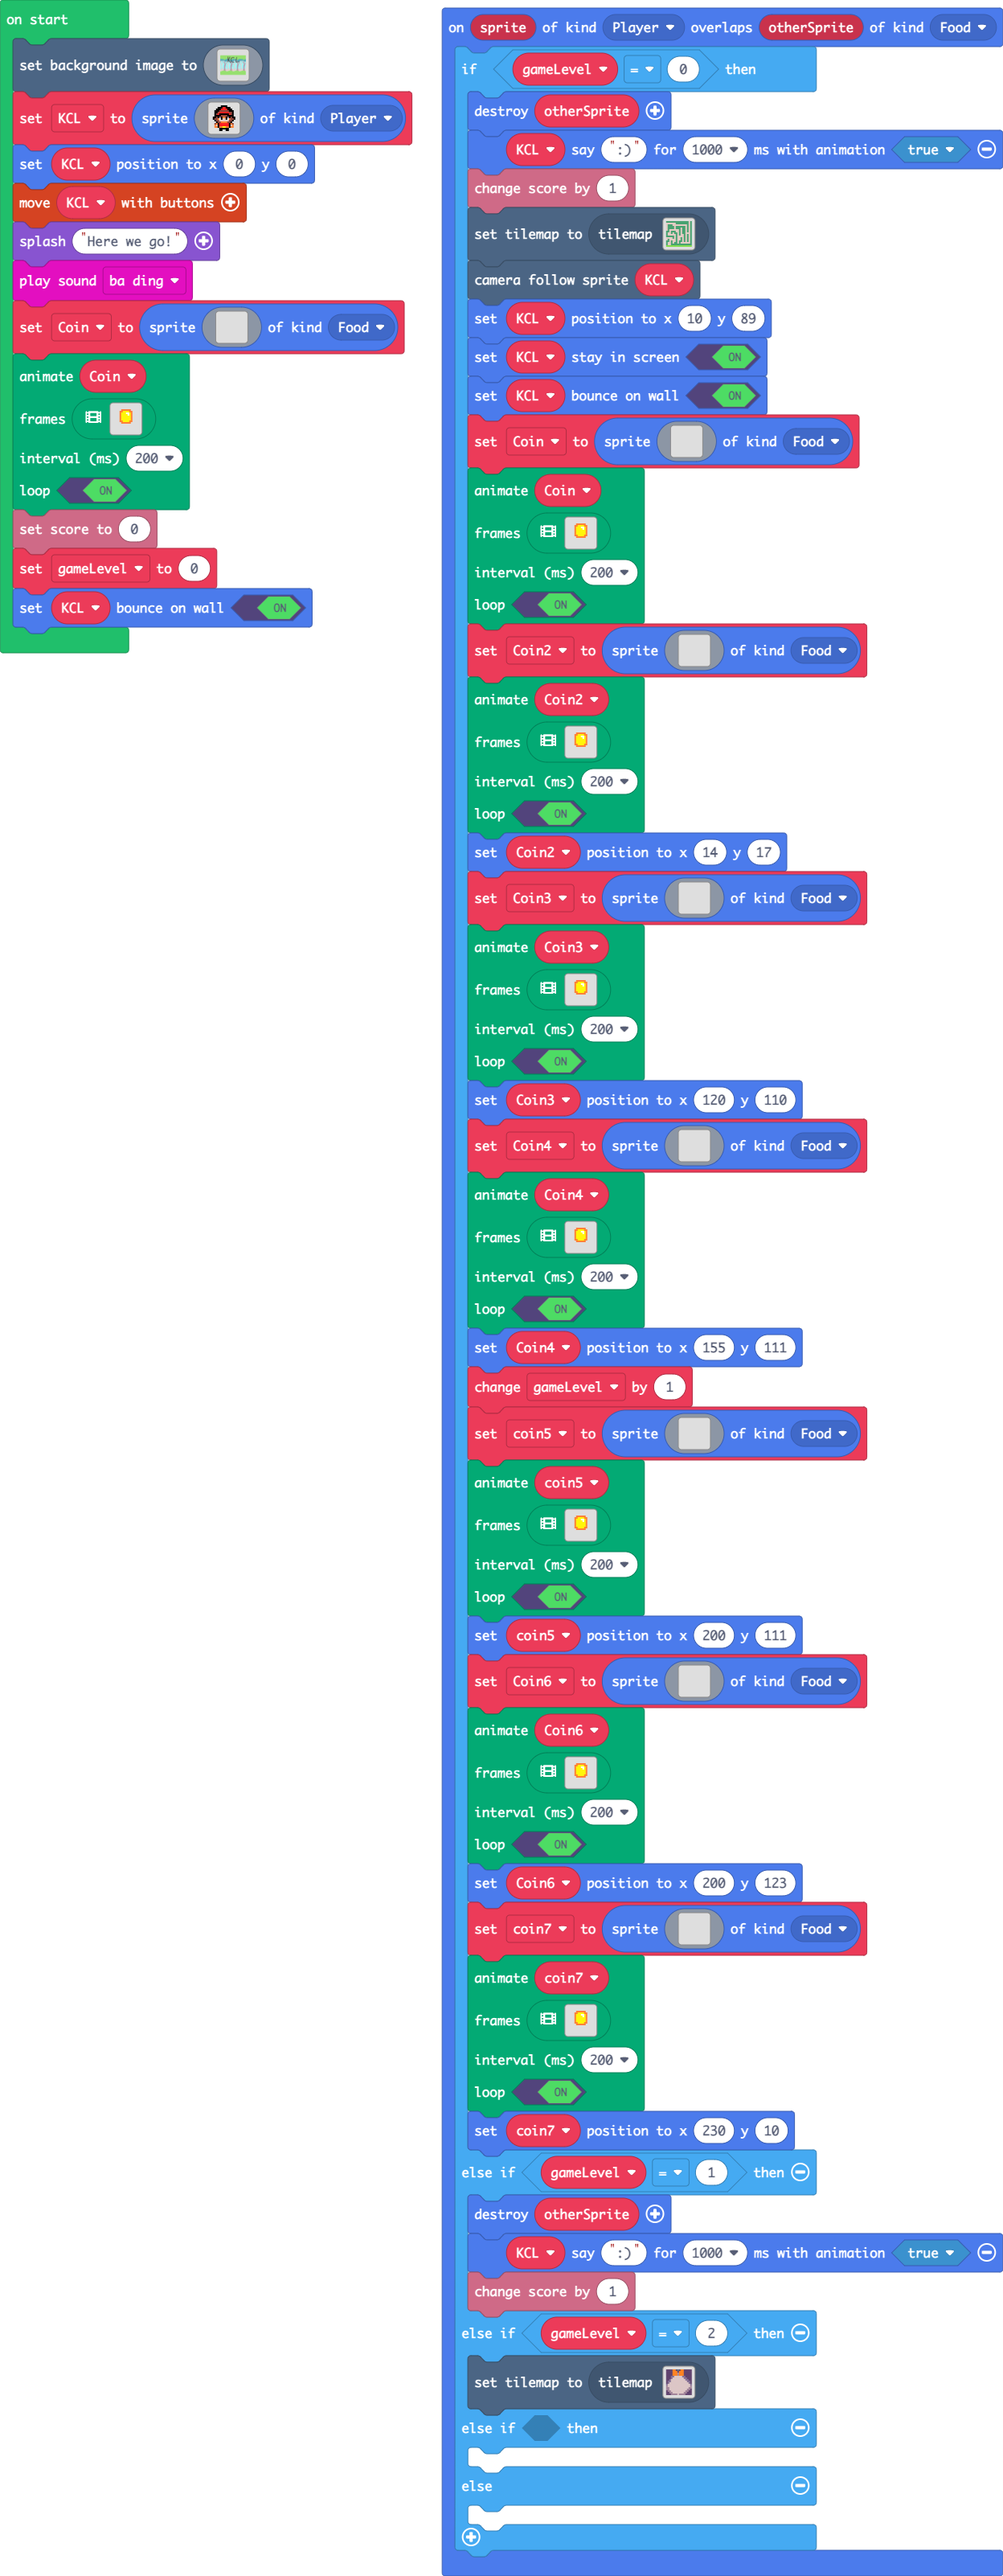
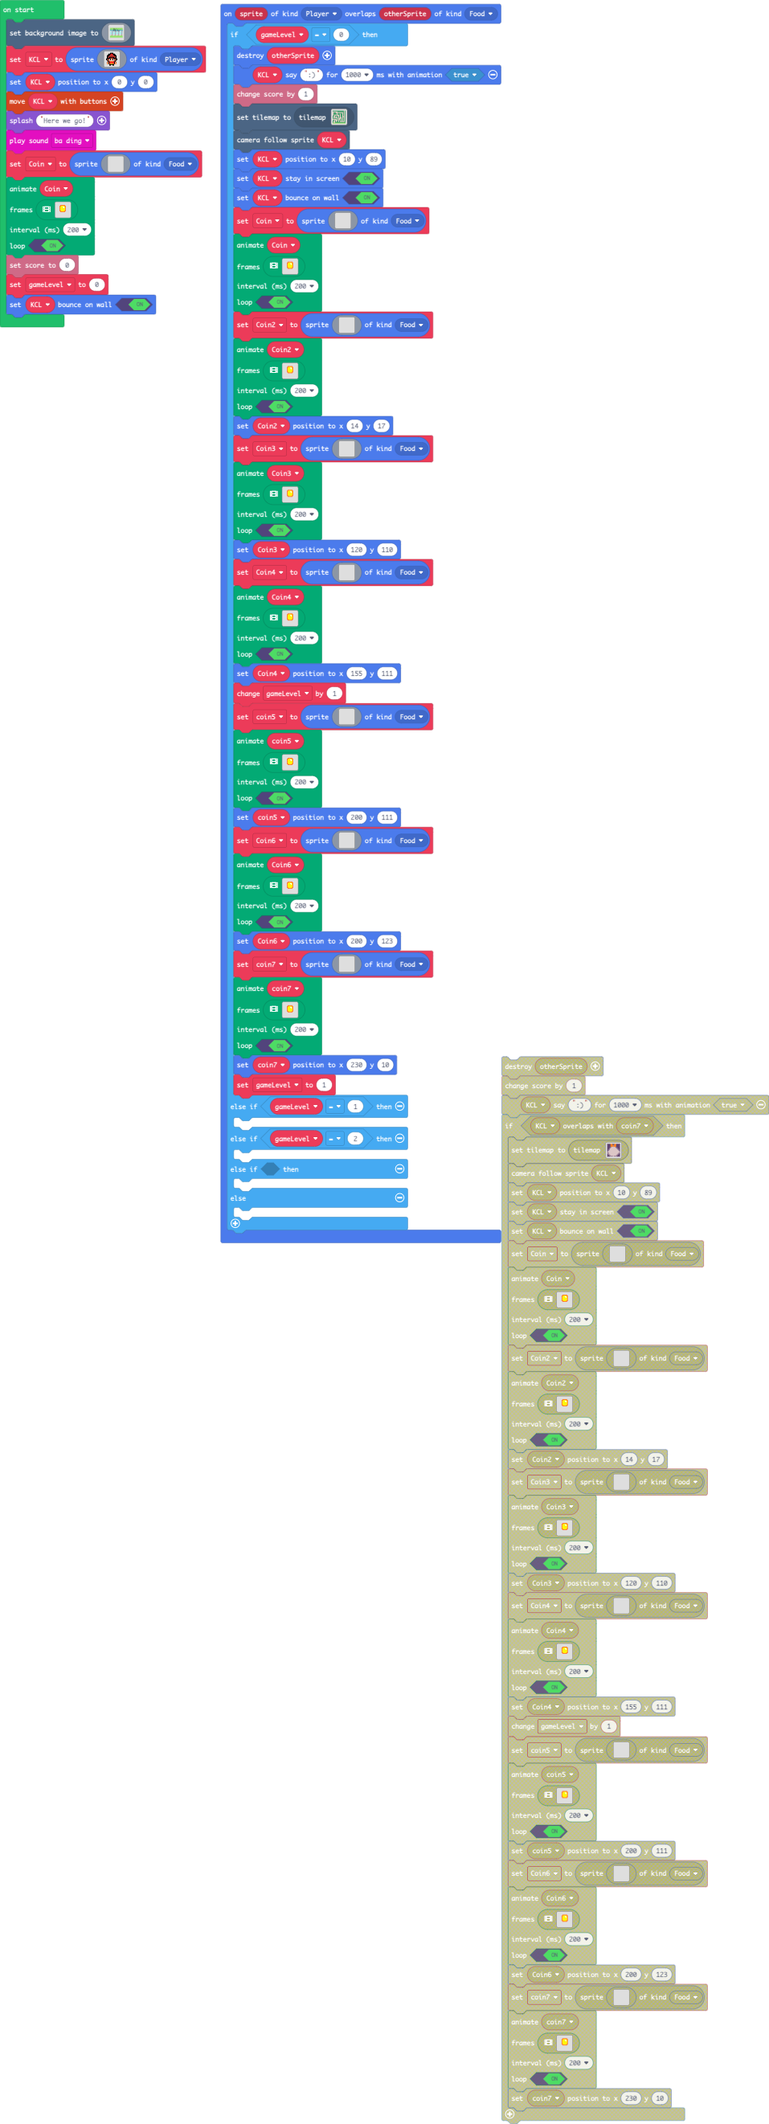
Worked on level 2 not ready yet

diff --git a/tilemap.g.ts b/tilemap.g.ts
@@ -296,6 +296,44 @@ namespace myTiles {
 . . . . . . . . . . . . . . . . 
 . . . . . . . . . . . . . . . . 
 `, [myTiles.transparency16,sprites.dungeon.darkGroundWest,sprites.dungeon.darkGroundSouthWest0,sprites.dungeon.darkGroundSouth,sprites.dungeon.darkGroundSouthEast0,sprites.dungeon.darkGroundEast,sprites.dungeon.darkGroundNorth,sprites.dungeon.darkGroundNorthEast0,sprites.dungeon.darkGroundNorthWest0,sprites.dungeon.darkGroundCenter,sprites.dungeon.greenSwitchUp,sprites.dungeon.hazardLava1,sprites.dungeon.stairSouth,sprites.builtin.coral5,sprites.dungeon.floorLight0,sprites.castle.rock0], TileScale.Sixteen);
+            case "level18":
+            case "level18":return tiles.createTilemap(hex`1000100000000000000000000000000000000000000000000000000000000000000000000000000000000000000000000000000000000000000000000000000000000000000000000000000000000000000000000000000000000000000000000000000000000000000000000000000000000000000000000000000000000000000000000000000000000000000000000000000000000000000000000000000000000000000000000000000000000000000000000000000000000000000000000000000000000000000000000000000000000000000000000000000000000000000000000000000000000000000000000000000000000000000000000000000000000000`, img`
+. . . . . . . . . . . . . . . . 
+. . . . . . . . . . . . . . . . 
+. . . . . . . . . . . . . . . . 
+. . . . . . . . . . . . . . . . 
+. . . . . . . . . . . . . . . . 
+. . . . . . . . . . . . . . . . 
+. . . . . . . . . . . . . . . . 
+. . . . . . . . . . . . . . . . 
+. . . . . . . . . . . . . . . . 
+. . . . . . . . . . . . . . . . 
+. . . . . . . . . . . . . . . . 
+. . . . . . . . . . . . . . . . 
+. . . . . . . . . . . . . . . . 
+. . . . . . . . . . . . . . . . 
+. . . . . . . . . . . . . . . . 
+. . . . . . . . . . . . . . . . 
+`, [myTiles.transparency16], TileScale.Sixteen);
+            case "level19":
+            case "level19":return tiles.createTilemap(hex`1000100000000000000000000000000000000000000000000000000000000000000000000000000000000000000000000000000000000000000000000000000000000000000000000000000000000000000000000000000000000000000000000000000000000000000000000000000000000000000000000000000000000000000000000000000000000000000000000000000000000000000000000000000000000000000000000000000000000000000000000000000000000000000000000000000000000000000000000000000000000000000000000000000000000000000000000000000000000000000000000000000000000000000000000000000000000000`, img`
+. . . . . . . . . . . . . . . . 
+. . . . . . . . . . . . . . . . 
+. . . . . . . . . . . . . . . . 
+. . . . . . . . . . . . . . . . 
+. . . . . . . . . . . . . . . . 
+. . . . . . . . . . . . . . . . 
+. . . . . . . . . . . . . . . . 
+. . . . . . . . . . . . . . . . 
+. . . . . . . . . . . . . . . . 
+. . . . . . . . . . . . . . . . 
+. . . . . . . . . . . . . . . . 
+. . . . . . . . . . . . . . . . 
+. . . . . . . . . . . . . . . . 
+. . . . . . . . . . . . . . . . 
+. . . . . . . . . . . . . . . . 
+. . . . . . . . . . . . . . . . 
+`, [myTiles.transparency16], TileScale.Sixteen);
         }
         return null;
     })

diff --git a/main.ts b/main.ts
@@ -183,12 +183,11 @@ sprites.onOverlap(SpriteKind.Player, SpriteKind.Food, function (sprite, otherSpr
         true
         )
         coin7.setPosition(230, 10)
+        gameLevel = 1
     } else if (gameLevel == 1) {
-        otherSprite.destroy()
-        KCL.sayText(":)", 1000, true)
-        info.changeScoreBy(1)
+    	
     } else if (gameLevel == 2) {
-        tiles.setCurrentTilemap(tilemap`level 7`)
+    	
     } else if (false) {
     	
     } else {
